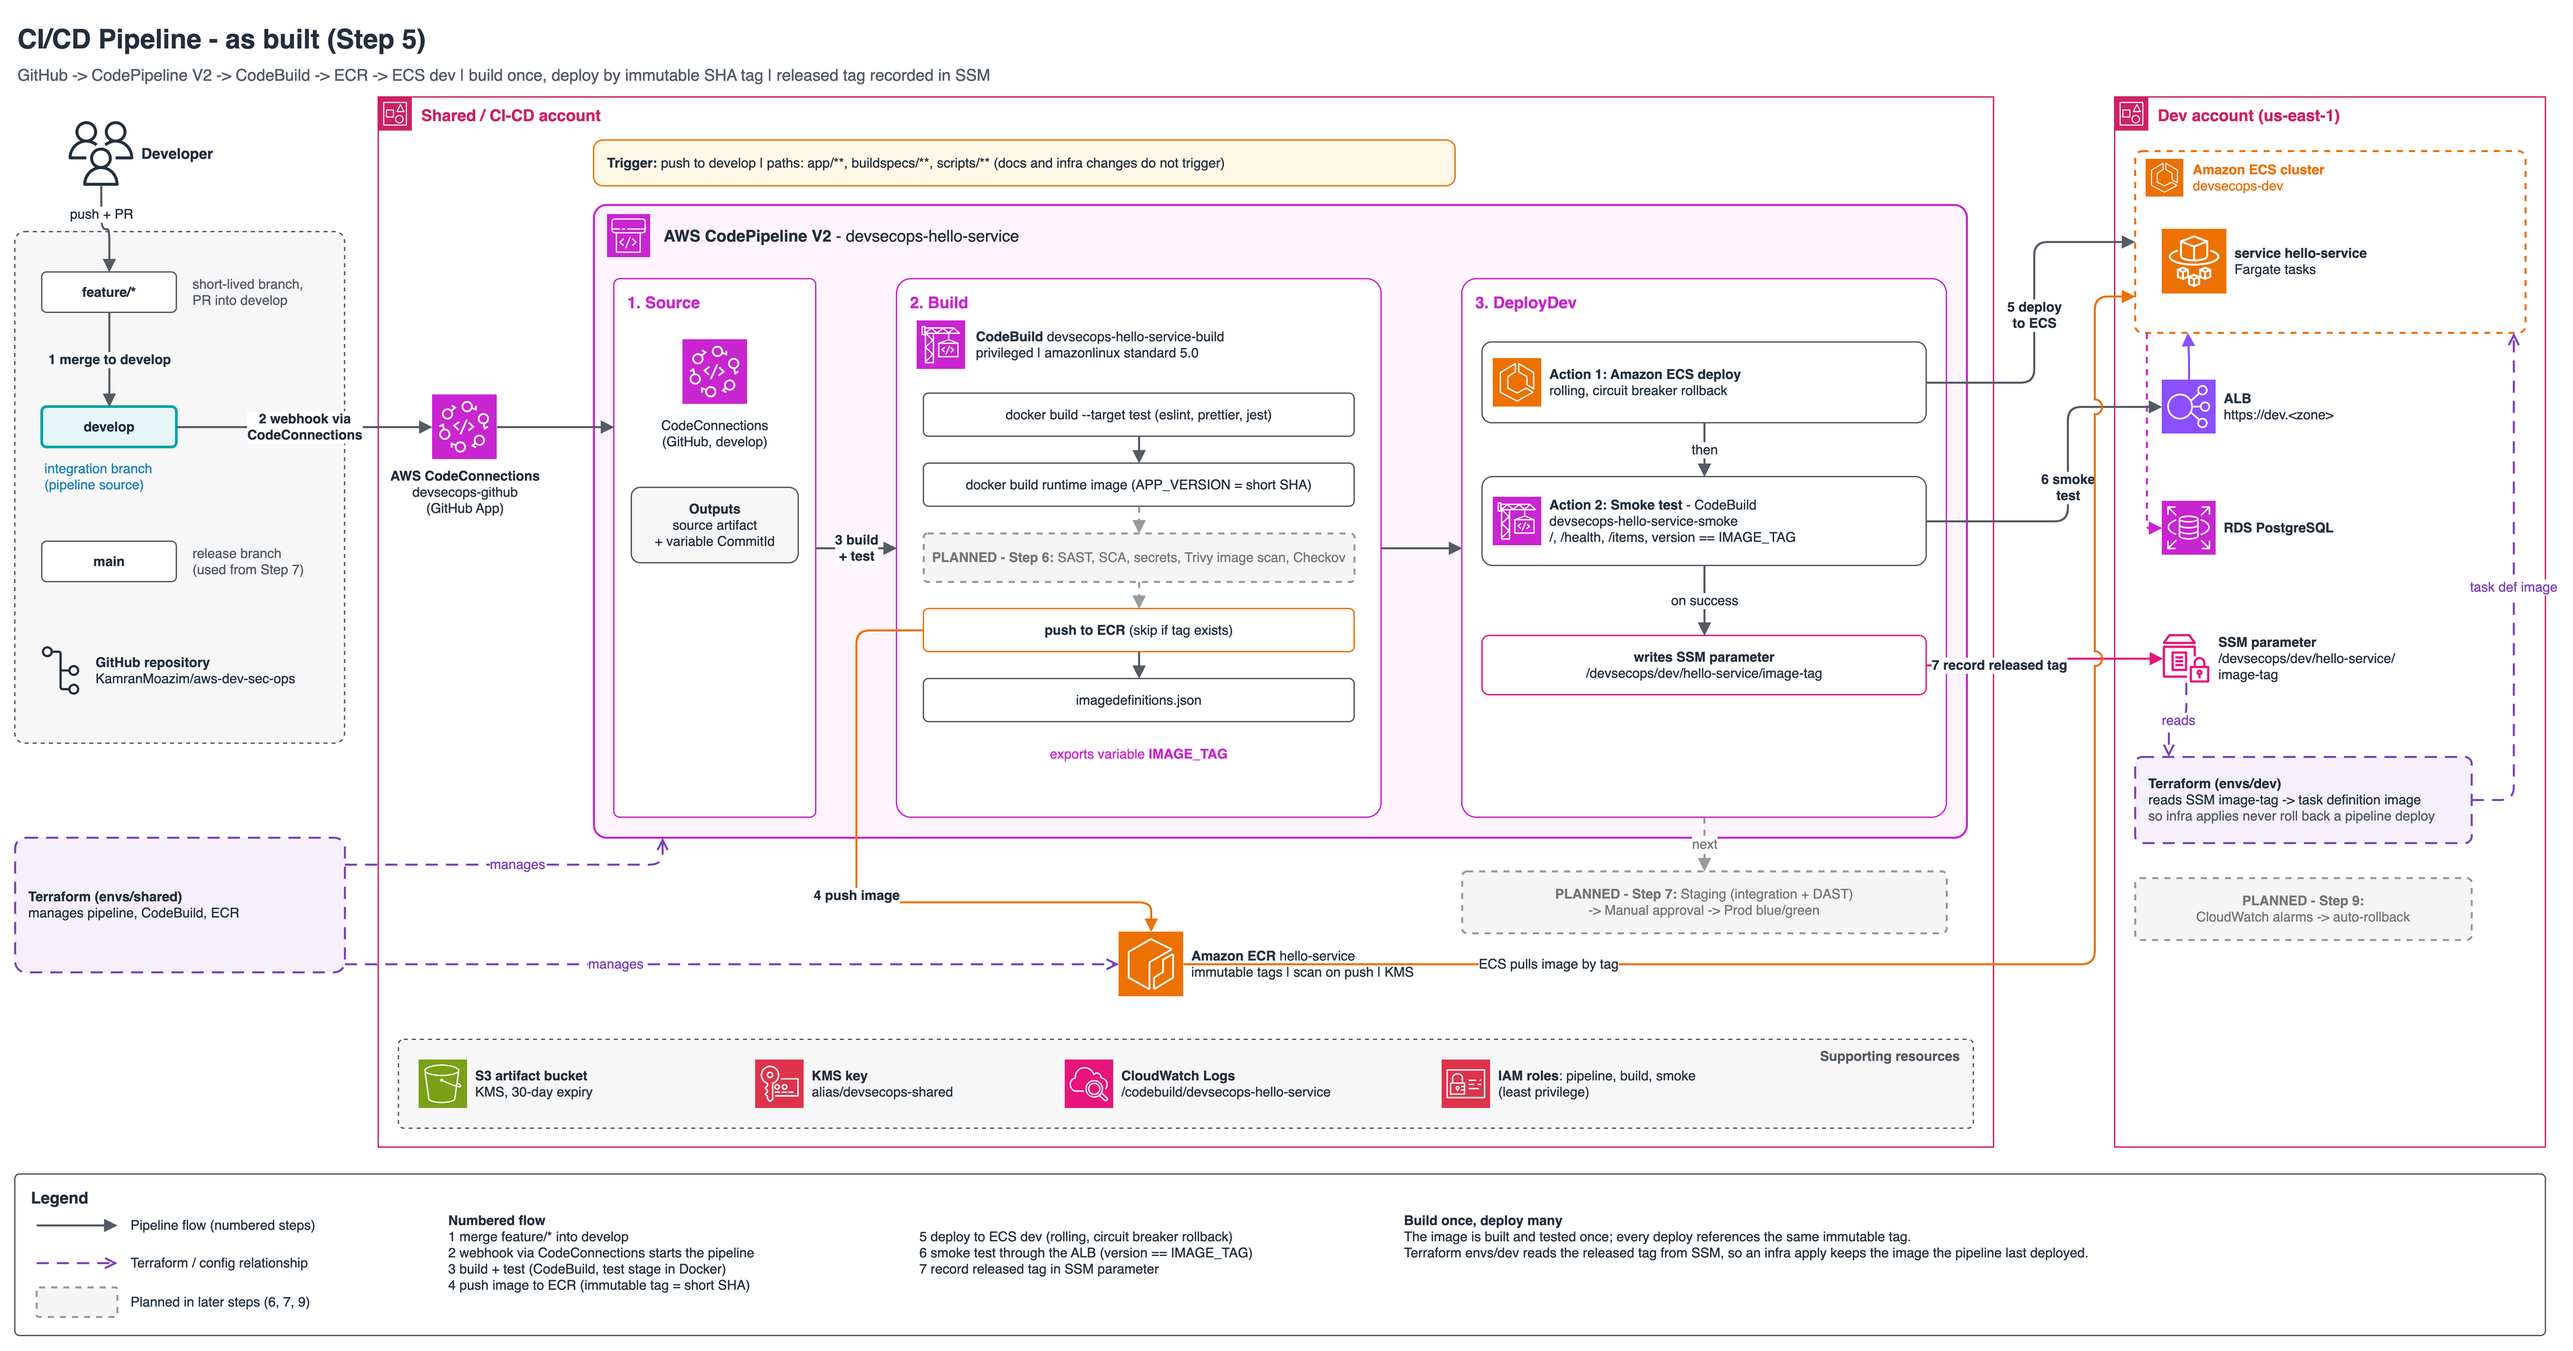
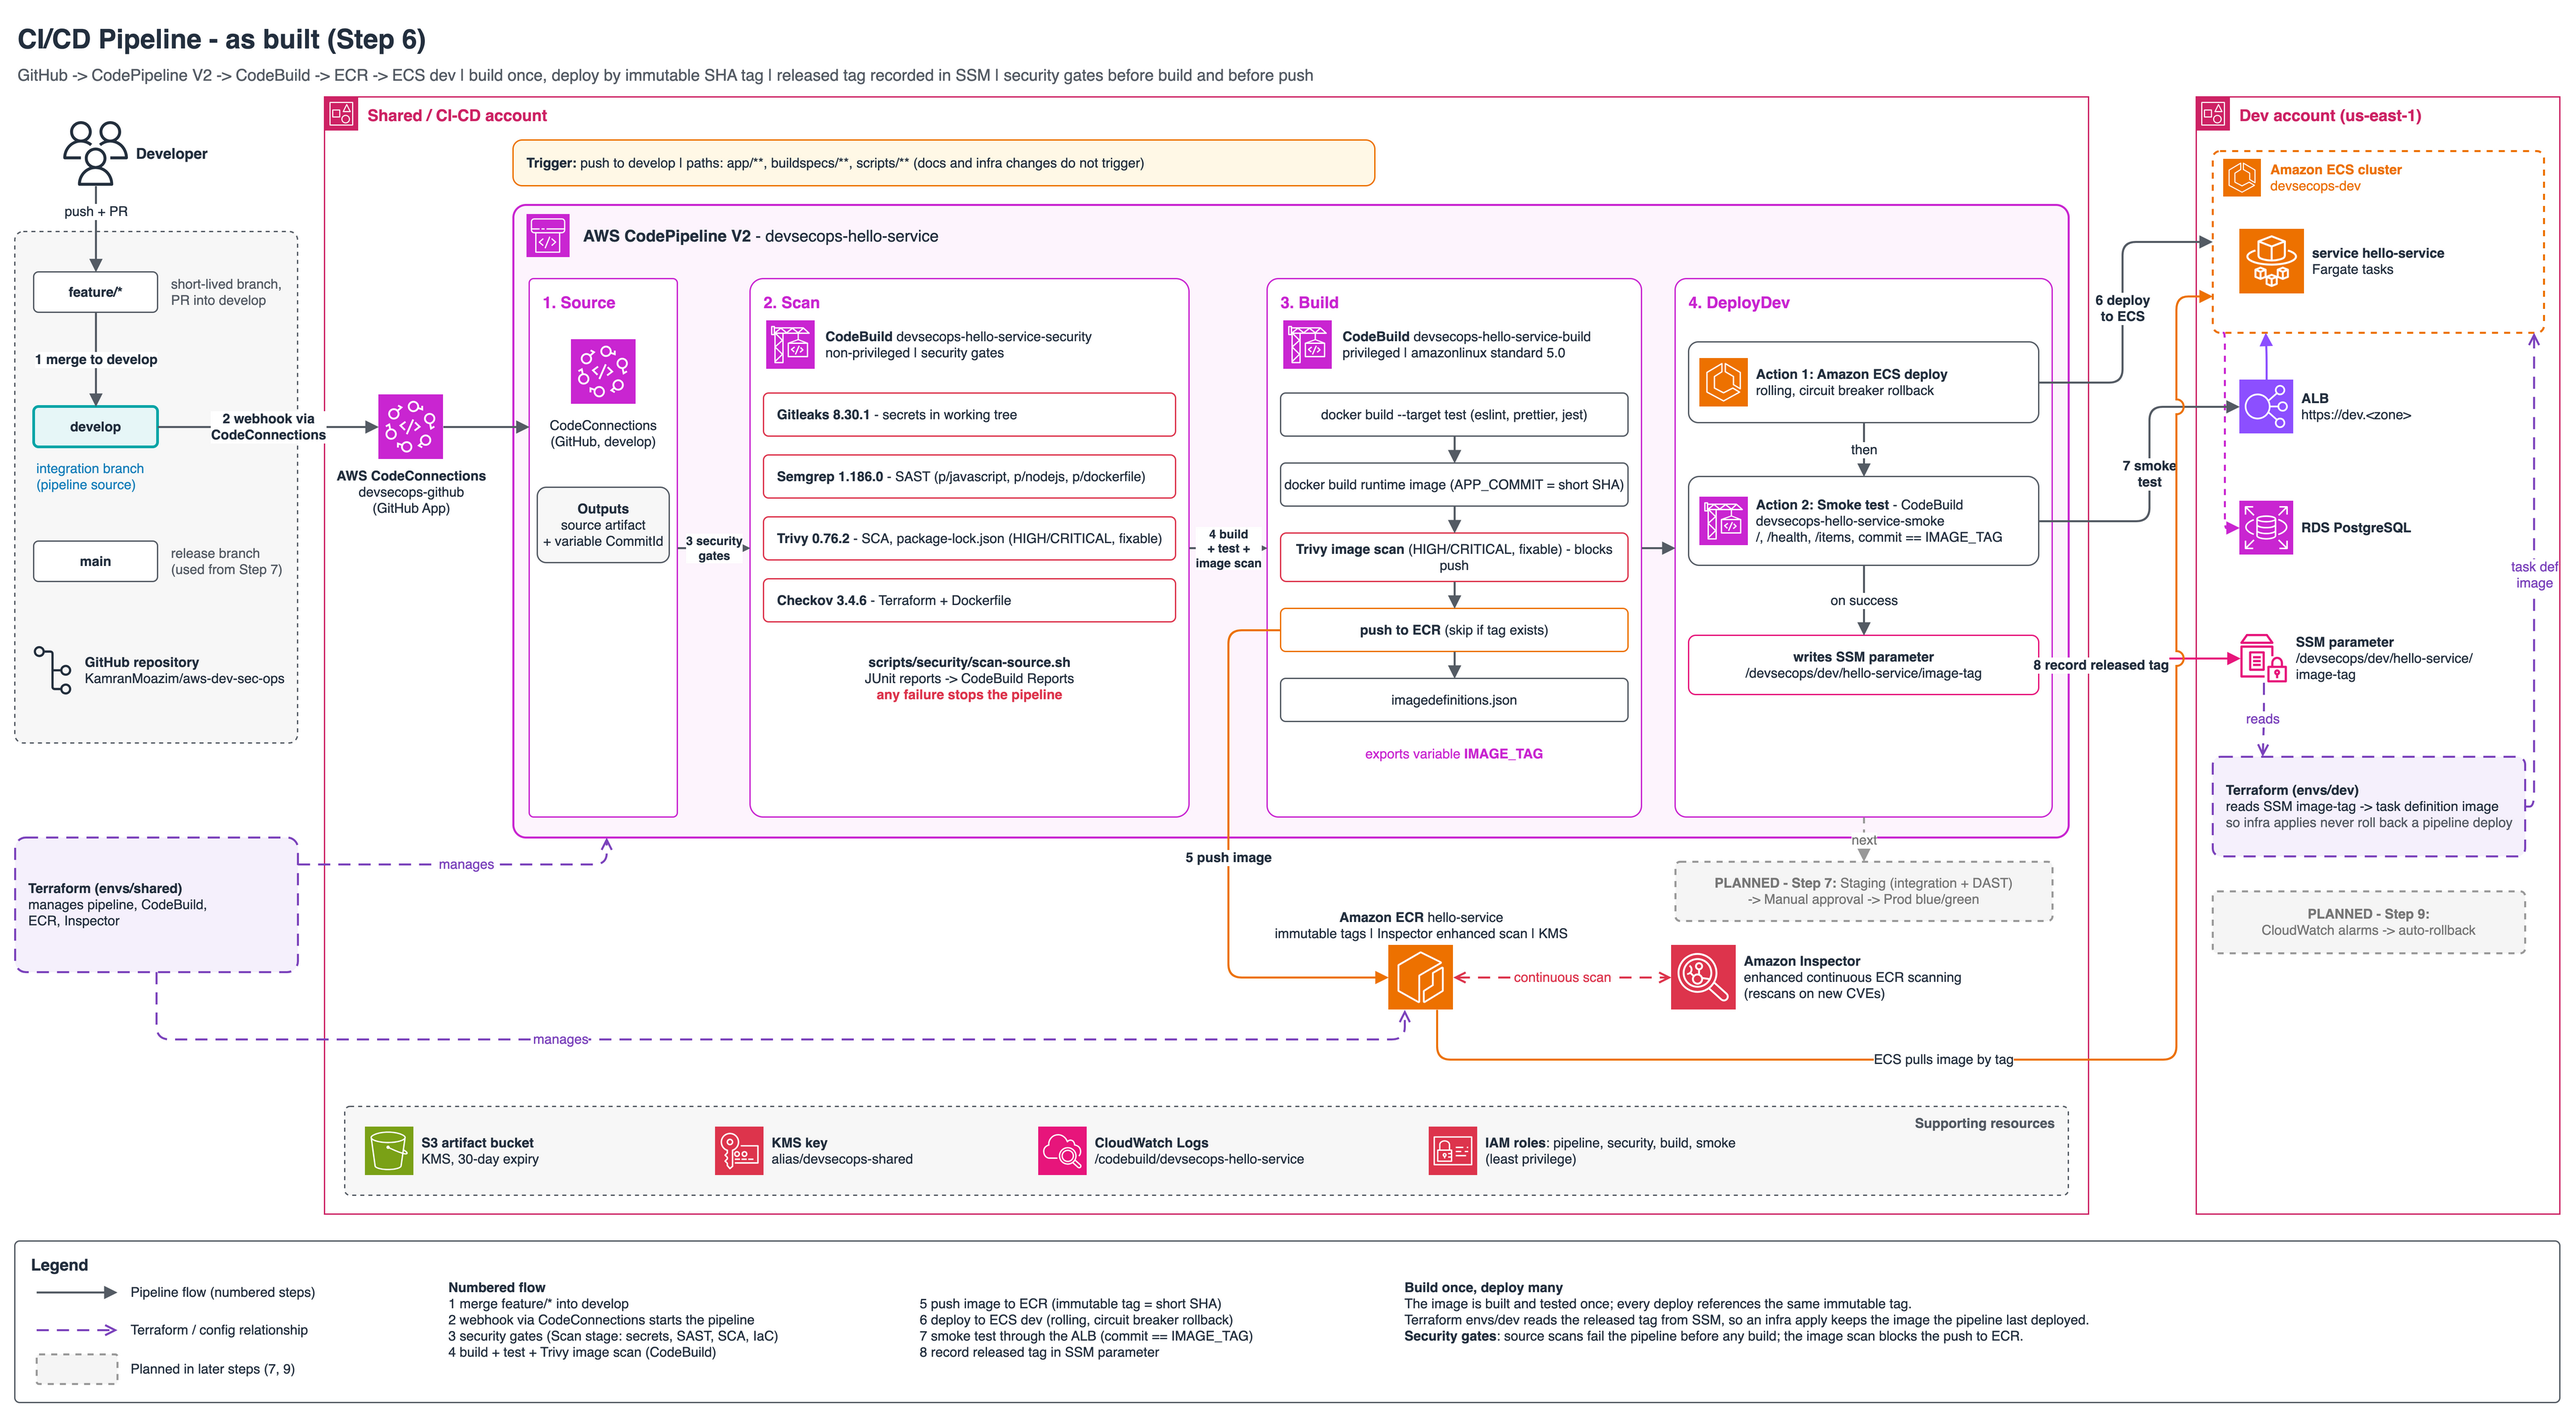
feat: Add security scanning gates to the pipeline
A new Scan stage runs Gitleaks, Semgrep, Trivy (SCA) and Checkov before
anything is built, and the build scans the image with Trivy before it is
pushed. Any HIGH/CRITICAL fixable finding fails the pipeline. Tool
versions are pinned and release binaries checksum-verified; scans are
plain scripts so other CI systems can reuse them, and make security-scan
runs the same gate locally in Linux. Inspector enhanced continuous
scanning is enabled for ECR. The app now reports its semantic version
from package.json plus the build commit. Updates the CI/CD diagram.

diff --git a/app/test/app.test.js b/app/test/app.test.js
@@ -1,19 +1,20 @@
 const request = require('supertest');
 const { createApp } = require('../src/app');
 const { loadConfig } = require('../src/config');
+const packageJson = require('../package.json');
 
 function fakeDb(items) {
   return { listItems: jest.fn().mockResolvedValue(items) };
 }
 
 describe('hello service', () => {
-  test('GET / returns service name and version', async () => {
-    const app = createApp({ db: fakeDb([]), version: 'abc123' });
+  test('GET / returns service name, semantic version and commit', async () => {
+    const app = createApp({ db: fakeDb([]), version: '1.2.3', commit: 'abc1234' });
 
     const response = await request(app).get('/');
 
     expect(response.status).toBe(200);
-    expect(response.body).toEqual({ service: 'hello', version: 'abc123' });
+    expect(response.body).toEqual({ service: 'hello', version: '1.2.3', commit: 'abc1234' });
   });
 
   test('GET /health returns ok', async () => {
@@ -60,19 +61,29 @@ describe('hello service', () => {
 });
 
 describe('loadConfig', () => {
+  test('version comes from package.json as semver', () => {
+    expect(loadConfig({}).version).toMatch(/^\d+\.\d+\.\d+(-[0-9A-Za-z.-]+)?$/);
+  });
+
   test('uses defaults when env is empty', () => {
     const config = loadConfig({});
 
     expect(config.port).toBe(3000);
-    expect(config.version).toBe('dev');
+    expect(config.version).toBe(packageJson.version);
+    expect(config.commit).toBe('local');
     expect(config.db.ssl).toBe(false);
   });
 
   test('reads values from env', () => {
-    const config = loadConfig({ PORT: '8080', APP_VERSION: 'v1', DB_HOST: 'db', DB_SSL: 'true' });
+    const config = loadConfig({
+      PORT: '8080',
+      APP_COMMIT: 'abc1234',
+      DB_HOST: 'db',
+      DB_SSL: 'true',
+    });
 
     expect(config.port).toBe(8080);
-    expect(config.version).toBe('v1');
+    expect(config.commit).toBe('abc1234');
     expect(config.db.host).toBe('db');
     expect(config.db.ssl).toEqual({ rejectUnauthorized: false });
   });

diff --git a/app/src/server.js b/app/src/server.js
@@ -14,9 +14,13 @@ async function start() {
     process.exit(1);
   }
 
-  const app = createApp({ db, version: config.version });
+  const app = createApp({ db, version: config.version, commit: config.commit });
   const server = app.listen(config.port, () => {
-    logger.info('Server started', { port: config.port, version: config.version });
+    logger.info('Server started', {
+      port: config.port,
+      version: config.version,
+      commit: config.commit,
+    });
   });
 
   // ECS sends SIGTERM on deploy/scale-in; drain in-flight requests before exit.

diff --git a/app/src/app.js b/app/src/app.js
@@ -1,12 +1,12 @@
 const express = require('express');
 const logger = require('./logger');
 
-function createApp({ db, version }) {
+function createApp({ db, version, commit }) {
   const app = express();
   app.disable('x-powered-by');
 
   app.get('/', (req, res) => {
-    res.json({ service: 'hello', version });
+    res.json({ service: 'hello', version, commit });
   });
 
   app.get('/health', (req, res) => {

diff --git a/app/src/config.js b/app/src/config.js
@@ -1,7 +1,10 @@
+const { version } = require('../package.json');
+
 function loadConfig(env = process.env) {
   return {
     port: Number(env.PORT || 3000),
-    version: env.APP_VERSION || 'dev',
+    version,
+    commit: env.APP_COMMIT || 'local',
     db: {
       host: env.DB_HOST || 'localhost',
       port: Number(env.DB_PORT || 5432),
